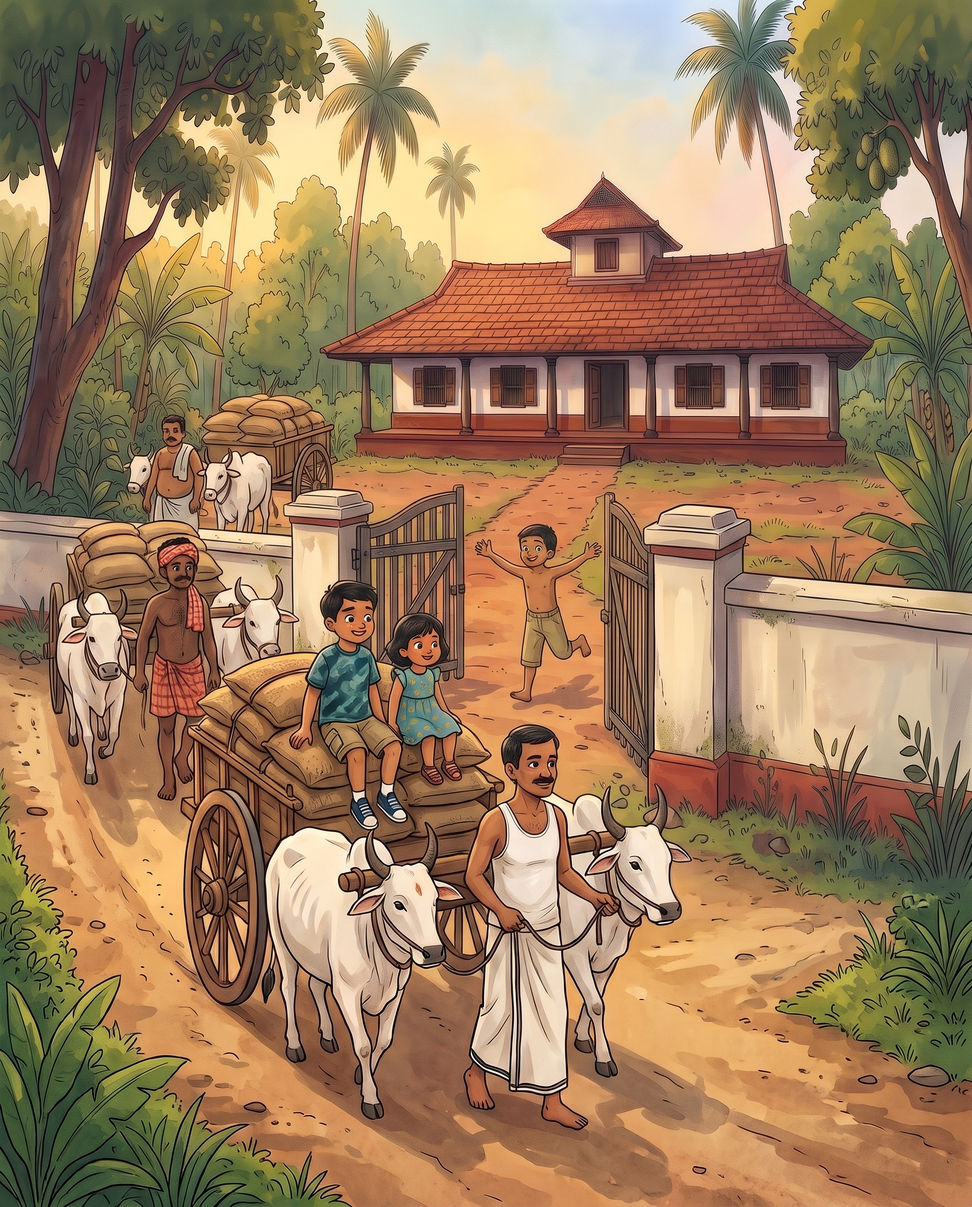
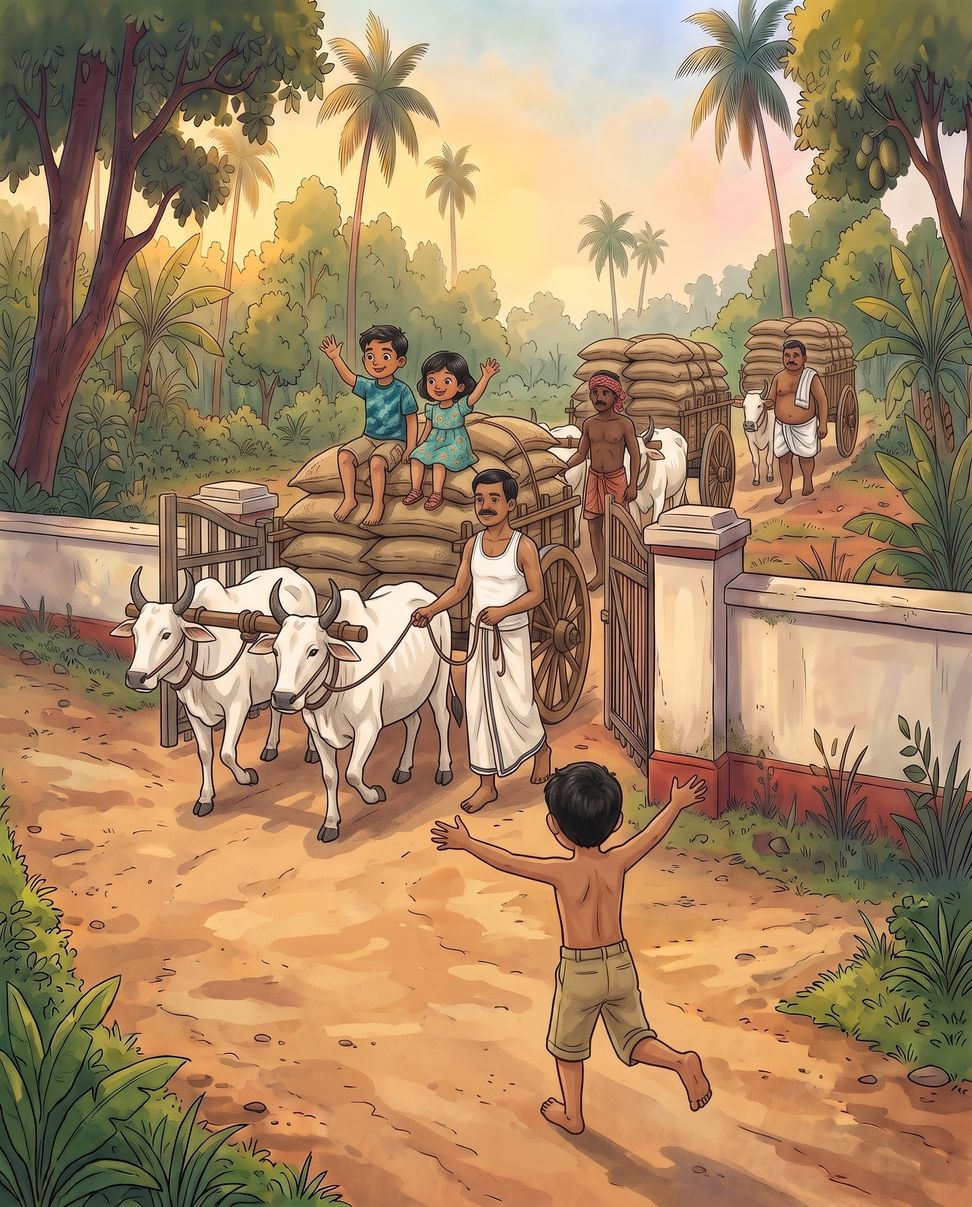
Comic ch.2: panels 7, 8, 10 and 14 fixed
Panel 7: Appuman's cart comes in through the gate first, with the other two
carts still in the lane behind. Panels 8, 10 and 14: no wall or gate beside
the house, just palms and plants. Panel 10: the bullocks drink from buckets,
not a trough. Alt text and both share sheets updated; cache version bumped.

diff --git a/comics/appuman-harvest/story.js b/comics/appuman-harvest/story.js
@@ -23,7 +23,7 @@ var PANELS = [
     ml: "…ഓരോ പൂവലും കൃഷി കഴിഞ്ഞാൽ രണ്ടോ മൂന്നോ കാളവണ്ടികൾ നിറയെ നെല്ല് കയറ്റി ചിയ്യാരത്ത് 'ശങ്കരംപൊന്നത്തേക്കു', അച്ഛന്റെ വീട്ടിലേക്കു അപ്പുമാൻ നയിച്ചു കൊണ്ടുവരുമായിരുന്നു.",
     en: "…After each harvest, two or three bullock carts loaded full of grain would be brought to Chiyyaram, to \"Sankaramponnath\" — my father's house — led by Appuman.",
     bubbles: [[ACHU, "Are we there yet?"], [APPU, "It's a long way to Chiyyaram!"]] },
-  { alt: "Evening at Sankaramponnath: Appuman's cart turns in through a broad gate in a white wall, the children on the sacks, as young Achan runs down the path to meet them.",
+  { alt: "Evening at Sankaramponnath: Appuman leads the first cart in through the broad gate, the children waving from the sacks, as young Achan runs to meet them; the other two carts follow in the lane.",
     ml: "എന്റെ അച്ഛന്റെ വീടും ഞങ്ങളുടെ തറവാടിന്റെ അഞ്ചാറ് വീട് വടക്കുമാറി ചിയ്യാരം ഗ്രാമത്തിൽ തന്നെ ആയിരുന്നു.",
     en: "My father's house was also in Chiyyaram village itself, just five or six houses north of our ancestral home.",
     bubbles: [['Young Achan', "Appuman's here!"]] },
@@ -35,7 +35,7 @@ var PANELS = [
     ml: "അച്ഛമ്മ ശങ്കരംപൊന്നത്ത് അപ്പുമാനും വണ്ടിക്കാർക്കും വയറുനിറച്ചു കാപ്പിയും പലഹാരവും കൊടുക്കും.",
     en: "Grandmother at Sankaramponnath would feed Appuman and the cart-drivers a full meal of coffee and snacks.",
     bubbles: [[APPU, "Can I have one too?"]] },
-  { alt: "At dusk the helpers water the bullocks at a stone trough beside three empty carts; Appu pats a bullock's neck.",
+  { alt: "At dusk the helpers water the bullocks from buckets beside three empty carts; Appu pats a bullock's neck.",
     ml: "വണ്ടിക്കാർ കാളകളെ അഴിച്ചുകെട്ടി വെള്ളം കൊടുത്തു മടങ്ങും എങ്കിലേ പിറ്റേന്ന് വെളുപ്പിനെ നാടെത്തൂ.",
     en: "The cart-drivers would only head back once they had untied the bulls and given them water — only then would they reach home by the following dawn.",
     bubbles: [[APPU, "They'll be walking all night!"]] },

diff --git a/comics/appuman-harvest/index.html b/comics/appuman-harvest/index.html
@@ -56,10 +56,10 @@
 
 <footer>An ongoing family archive · Korappath, Chiyyaram, Thrissur</footer>
 
-<script src="story.js?v=1"></script>
+<script src="story.js?v=2"></script>
 <script>
 var COMIC = {
-  v: '1',  // bump whenever a panel image changes, so browsers drop their cached copies
+  v: '2',  // bump whenever a panel image changes, so browsers drop their cached copies
   next: "Next time: Kunjan's rickshaw!",
   nextUrl: '../../stories/kunjan-rickshaw.html',
   nextLink: 'Read Chapter 3 →'
